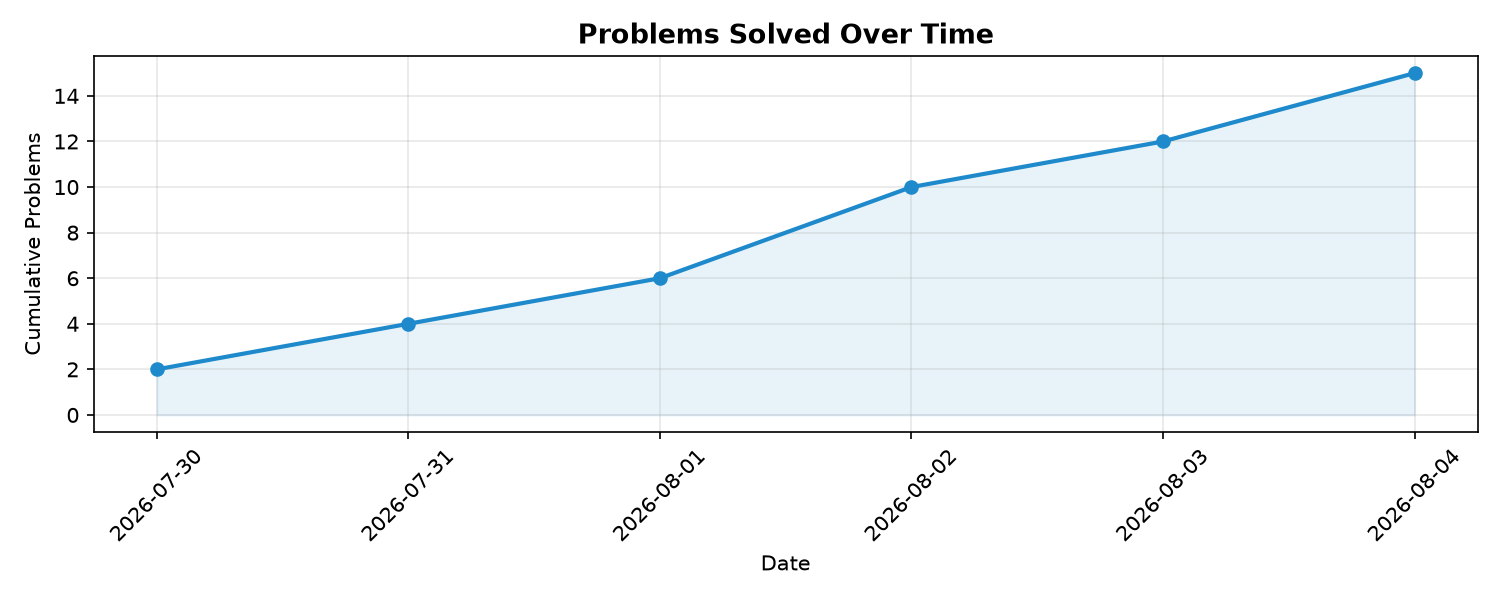
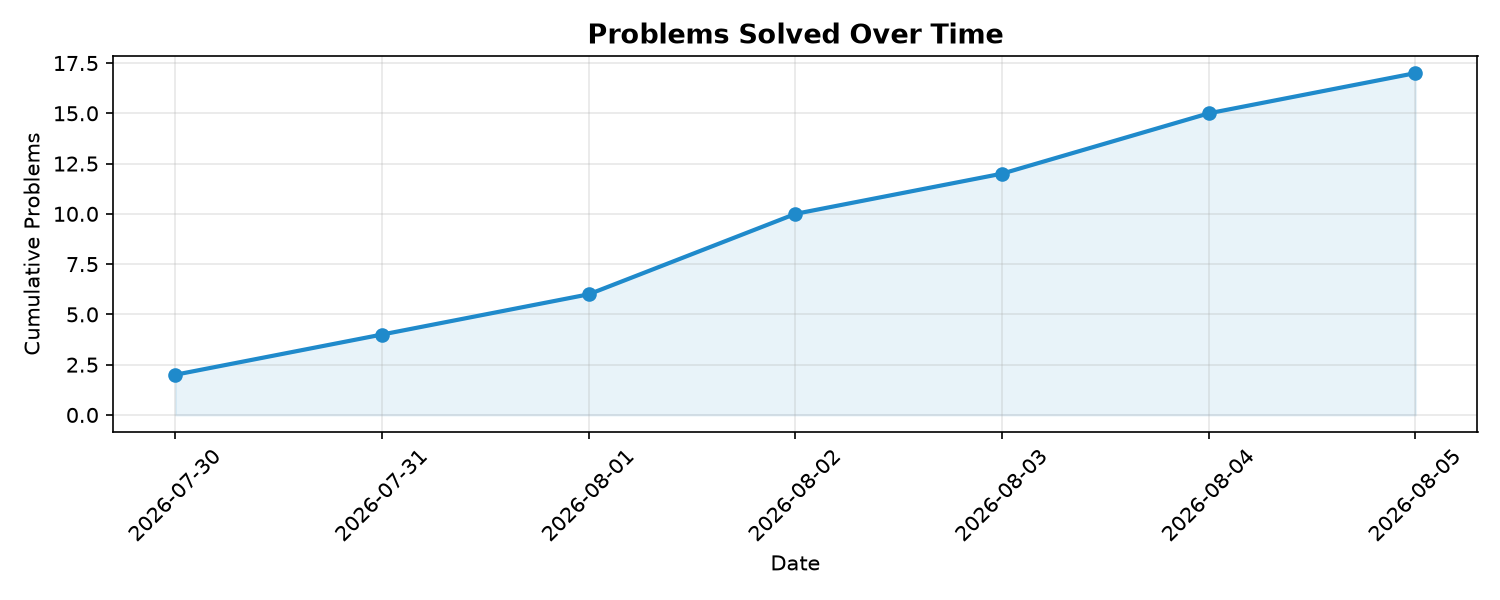
Auto-update README with progress chart

diff --git a/README.md b/README.md
@@ -43,31 +43,31 @@
 <!-- CHART_START -->
 ## 📈 Progress Chart
 
-![Progress](assets/progress_chart.png?t=1785865059)
-![Platform Split](assets/platform_chart.png?t=1785865059)
+![Progress](assets/progress_chart.png?t=1786126893)
+![Platform Split](assets/platform_chart.png?t=1786126893)
 
-**Total Problems Solved: 15**
+**Total Problems Solved: 17**
 
 <details>
 <summary>🕒 Recent Submissions (click to expand)</summary>
 
 | Date | Problem | Difficulty | Platform | Link |
 |---|---|---|---|---|
-| 2026-08-04 | Find Missing Elements | Easy | LeetCode | [Solve](https://leetcode.com/problems/find-missing-elements/) |
-| 2026-08-04 | Balanced Binary Tree | Easy | LeetCode | [Solve](https://leetcode.com/problems/balanced-binary-tree/) |
+| 2026-08-05 | Binary Tree Zigzag Level Order Traversal | Medium | nan | [Solve](https) |
+| 2026-08-05 | Diameter of Binary Tree | Easy | LeetCode | [Solve](https://leetcode.com/problems/diameter-of-binary-tree/) |
 | 2026-08-04 | Merge Strings Alternately | Easy | LeetCode | [Solve](https://leetcode.com/problems/merge-strings-alternately/) |
-| 2026-08-03 | Maximum Depth of Binary Tree | Easy | LeetCode | [Solve](https://leetcode.com/problems/maximum-depth-of-binary-tree/) |
+| 2026-08-04 | Balanced Binary Tree | Easy | LeetCode | [Solve](https://leetcode.com/problems/balanced-binary-tree/) |
+| 2026-08-04 | Find Missing Elements | Easy | LeetCode | [Solve](https://leetcode.com/problems/find-missing-elements/) |
 | 2026-08-03 | Minimum Size Subarray Sum | Medium | LeetCode | [Solve](https://leetcode.com/problems/minimum-size-subarray-sum/) |
-| 2026-08-02 | Binary Tree Inorder Traversal | Easy | LeetCode | [Solve](https://leetcode.com/problems/binary-tree-inorder-traversal/) |
+| 2026-08-03 | Maximum Depth of Binary Tree | Easy | LeetCode | [Solve](https://leetcode.com/problems/maximum-depth-of-binary-tree/) |
 | 2026-08-02 | Binary Tree Preorder Traversal | Easy | LeetCode | [Solve](https://leetcode.com/problems/binary-tree-preorder-traversal/) |
+| 2026-08-02 | Binary Tree Inorder Traversal | Easy | LeetCode | [Solve](https://leetcode.com/problems/binary-tree-inorder-traversal/) |
 | 2026-08-02 | Binary Tree Postorder Traversal | Easy | LeetCode | [Solve](https://leetcode.com/problems/binary-tree-postorder-traversal/) |
 | 2026-08-02 | Binary Tree Level Order Traversal | Medium | LeetCode | [Solve](https://leetcode.com/problems/binary-tree-level-order-traversal/) |
-| 2026-08-01 | Next Greater Element I | Easy | LeetCode | [Solve](https://leetcode.com/problems/next-greater-element-i/) |
 | 2026-08-01 | Next Greater Element II | Medium | LeetCode | [Solve](https://leetcode.com/problems/next-greater-element-ii/) |
-| 2026-07-31 | Sort Characters By Frequency | Medium | LeetCode | [Solve](https://leetcode.com/problems/sort-characters-by-frequency/) |
+| 2026-08-01 | Next Greater Element I | Easy | LeetCode | [Solve](https://leetcode.com/problems/next-greater-element-i/) |
 | 2026-07-31 | Sliding Window Maximum | Hard | LeetCode | [Solve](https://leetcode.com/problems/sliding-window-maximum/) |
-| 2026-07-30 | Minimum Number of Pushes to Type Word I | Easy | LeetCode | [Solve](https://leetcode.com/problems/minimum-number-of-pushes-to-type-word-i/) |
-| 2026-07-30 | Remove Outermost Parentheses | Easy | LeetCode | [Solve](https://leetcode.com/problems/remove-outermost-parentheses/) |
+| 2026-07-31 | Sort Characters By Frequency | Medium | LeetCode | [Solve](https://leetcode.com/problems/sort-characters-by-frequency/) |
 
 </details>
 <!-- CHART_END -->
